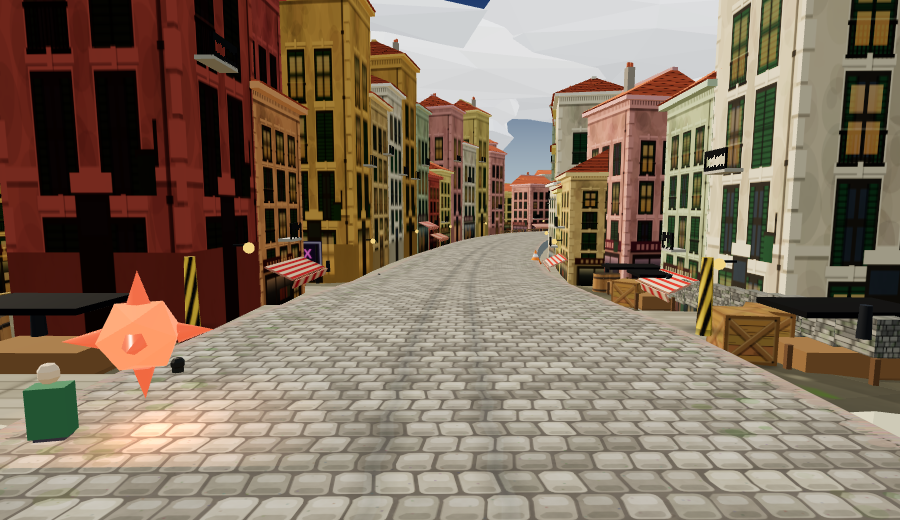
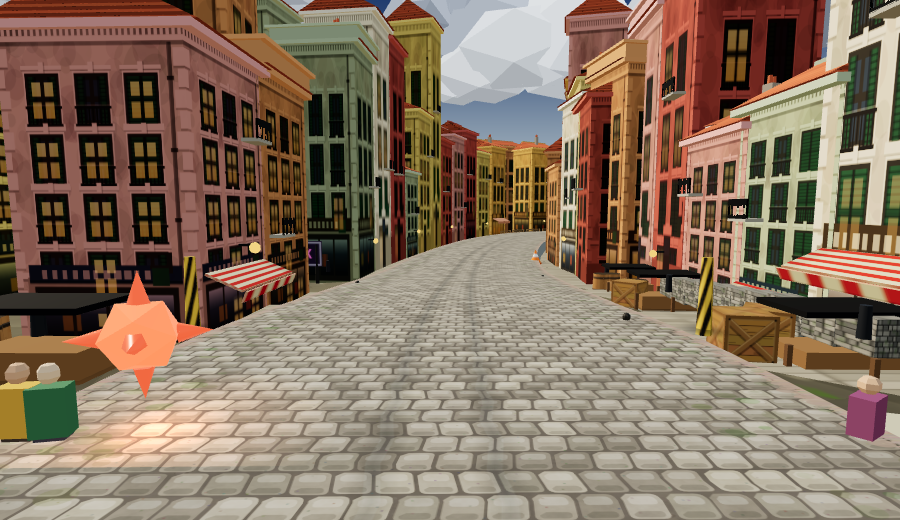
r251: the clouds again, because they looked bad
Reported plainly and correctly. r249 gave each cloud one squashed
icosahedron, and a single convex hull has one silhouette and no internal
form at all: from the ground it is a hard-edged sheet hanging in the air. A
paper cutout, or a boulder.

A CLOUD IS A CLUSTER, NOT A SLAB. Two things make one read: a bumpy top
edge of overlapping lobes, and a base that is cut off. `_cloudClusterGeo`
builds five to seven lumps in a row — biggest in the middle, tapering to
the ends, because that profile is most of what makes a row of blobs read as
ONE cloud rather than as a string — merges them into a single geometry, and
cuts the bottoms off.

Four things had to be got right, each found by looking at the render:

- FEWER, BIGGER LOBES. Ten small lumps packed into two radii overlap so
  heavily that what you see is the SEAMS between them: a crumpled-paper
  interior with no clean silhouette anywhere.
- HEIGHT. The first cluster spread its lumps over three radii of width and
  gave them 0.7 of a radius of rise — a strip of foam, not a cumulus.
- THE BASE IS RUMPLED, NOT PLANAR. Clamping every low vertex to y = 0 gives
  one enormous flat polygon underneath, and from a street you look straight
  at it: a pale sheet with a hard edge, which is the ice-floe read the slabs
  had and the whole reason for the rebuild. The cut-off height wanders with
  x and z instead.
- THE TINT IS NOT WHITE. The renderer tone-maps at 1.46 exposure, so a
[…]

diff --git a/src/track.js b/src/track.js
@@ -4463,7 +4463,18 @@ THEMES.riviera = {
   // shaded one, over a cooler, deeper blue than the postcard one this world
   // had. `cloudKind` is the only line that does it; drop it and the soft
   // sprite field comes straight back.
-  cloudKind: 'faceted', cloudCount: 17, cloudTint: 0xf6f9fc, cloudDeep: 0x93a1b2,
+  // AND THE TINT IS NOT WHITE EITHER. The renderer tone-maps at 1.46 exposure,
+  // so a near-white cloud colour comes out of the shader ABOVE white and every
+  // facet clips to the same value — which is why a bank with perfectly good
+  // baked shading still read as flat foam. Starting from a pale grey leaves
+  // the whole range under the clip and the facets come back.
+  // AND THERE ARE FEWER OF THEM THAN THE REFERENCE HAS. That image is a still
+  // photograph of an overcast; a bank dense enough to match it rings the
+  // horizon, and from a car — where the camera sits at 2.6 u and looks along
+  // the road, not up — thirty-seven clouds at a shallow angle stop being
+  // clouds and become a lid. Twenty distinct ones against blue is the same
+  // style and a better sky to drive under.
+  cloudKind: 'faceted', cloudCount: 9, cloudTint: 0xdae3ec, cloudDeep: 0x76839a,
   skyTop: '#2f6ba4', skyHorizon: '#d6dee2',
   // ...and its own paint. `frontage` is the painted face the town presents to
   // the road, which is what you actually drive past in the budello. Alassio
@@ -18654,125 +18665,193 @@ export class Track {
     }
   }
 
-  /** A LOW-POLY CLOUD: an icosahedron squashed and knocked out of true, so no
-   *  two facets catch the light alike and no silhouette repeats. Built once
-   *  and instanced; the variation is per-instance scale and yaw, which is
-   *  cheaper than four geometries and reads the same from the ground. */
-  _cloudShardGeo() {
-    if (this._shardGeo) return this._shardGeo;
-    const g = new THREE.IcosahedronGeometry(1, 1);
-    const pos = g.attributes.position;
-    const v = new THREE.Vector3();
-    for (let i = 0; i < pos.count; i++) {
-      v.fromBufferAttribute(pos, i);
-      // squash it flat, then push each vertex out by a hash of where it is —
-      // deterministic per vertex, so the two ends of a shared edge agree and
-      // the hull stays closed
-      const n = Math.sin(v.x * 12.9898 + v.y * 78.233 + v.z * 37.719) * 43758.5453;
-      const j = 0.72 + ((n - Math.floor(n)) * 0.56);
-      v.set(v.x * j, v.y * 0.34 * j, v.z * j * 0.86);
-      // a cloud has a flatter bottom than top
-      if (v.y < 0) v.y *= 0.55;
-      pos.setXYZ(i, v.x, v.y, v.z);
+  /** A LOW-POLY CLOUD, AND IT IS A CLUSTER, NOT A SLAB.
+   *
+   *  The first cut gave each cloud one squashed icosahedron. From the ground
+   *  that is a hard-edged sheet hanging in the air — a paper cutout, or a
+   *  boulder — because a single convex hull has one silhouette and no internal
+   *  form at all. Reported, correctly, as looking bad.
+   *
+   *  A cloud reads as a cloud because of two things: a BUMPY TOP EDGE made of
+   *  many overlapping lobes, and a FLAT BASE. So this builds eight to ten
+   *  lumps in a row, biggest in the middle and falling away at the ends,
+   *  merges them into one geometry, and then clamps every vertex at the bottom
+   *  to a single plane — which is what gives a cumulus its cut-off underside
+   *  and, incidentally, one big dark face where the shading bake wants one.
+   *
+   *  THREE VARIANTS, because one silhouette repeated thirty times across a sky
+   *  is the same failure at a different scale. Each is built once and
+   *  instanced, so the whole sky is three draw calls.
+   *
+   *  The lump layout is drawn from a SEEDED generator rather than
+   *  `Math.random()`: these are geometries, not placements, and a cloud shape
+   *  that changes every time the world rebuilds cannot be looked at twice.
+   */
+  _cloudClusterGeo(variant) {
+    this._cloudGeos = this._cloudGeos || new Map();
+    const hit = this._cloudGeos.get(variant);
+    if (hit) return hit;
+    let seed = 20260821 + variant * 7919;
+    const rnd = () => {
+      seed = (seed * 1103515245 + 12345) & 0x7fffffff;
+      return seed / 0x7fffffff;
+    };
+    // detail 0: twenty faces a lump, which is the facet size the reference
+    // draws. Detail 1 is smoother and stops reading as low-poly at all.
+    const src = new THREE.IcosahedronGeometry(1, 0);
+    const sp = src.attributes.position.array;
+    // FEWER, BIGGER LOBES. Ten small lumps packed into two radii overlap so
+    // heavily that what you see is the SEAMS between them — a crumpled-paper
+    // interior with no clean silhouette anywhere. Five or six big ones read as
+    // the distinct billows a cloud is actually made of.
+    const LUMPS = 5 + ((rnd() * 3) | 0);
+    const out = new Float32Array(sp.length * LUMPS);
+    const lumpOf = new Float32Array((sp.length / 3) * LUMPS);
+    let o = 0, li = 0;
+    for (let i = 0; i < LUMPS; i++) {
+      const t = LUMPS < 2 ? 0 : (i / (LUMPS - 1)) * 2 - 1;   // -1..1 along the cloud
+      // biggest in the middle, tapering to the ends: that profile is most of
+      // what makes a row of blobs read as one cloud rather than as a string
+      const taper = 1 - t * t * 0.62;
+      // A CLOUD HAS HEIGHT. The first cluster spread its lumps over three
+      // radii of width and gave them 0.7 of a radius of rise, which is a strip
+      // of foam, not a cumulus: from the ground it read as torn paper laid
+      // flat. Pull the row in and grow the lumps up.
+      const s = (0.52 + rnd() * 0.24) * taper;
+      const cx = t * 0.78 + (rnd() - 0.5) * 0.14;
+      const cy = 0.46 * taper + (rnd() - 0.5) * 0.16;
+      const cz = (rnd() - 0.5) * 0.66;
+      const sy = 0.95 + rnd() * 0.5;
+      const sz = 0.82 + rnd() * 0.4;
+      const shade = (rnd() - 0.5) * 0.1;              // this lump's own value
+      for (let k = 0; k < sp.length; k += 3) {
+        out[o++] = cx + sp[k] * s;
+        out[o++] = cy + sp[k + 1] * s * sy;
+        out[o++] = cz + sp[k + 2] * s * sz;
+        lumpOf[li++] = shade;
+      }
     }
+    // THE FLAT BASE — but RUMPLED, not planar. Clamping every low vertex to
+    // y = 0 gives one enormous flat polygon underneath, and from a street you
+    // are looking straight at it: a pale sheet with a hard edge, which is the
+    // ice-floe read the slab version had and the whole reason for this rebuild.
+    // Cut them off at a height that wanders with x and z instead, so the base
+    // stays a base and still has form in it.
+    for (let k = 0; k < out.length; k += 3) {
+      const nz = Math.sin(out[k] * 5.31 + out[k + 2] * 7.77) * 0.5
+        + Math.sin(out[k] * 11.7 - out[k + 2] * 3.9) * 0.25;
+      const floor = nz * 0.09;
+      if (out[k + 1] < floor) out[k + 1] = floor;
+    }
+    const g = new THREE.BufferGeometry();
+    g.setAttribute('position', new THREE.BufferAttribute(out, 3));
     g.computeVertexNormals();
     // BAKE THE SHADING INTO THE VERTICES, and light the bank with nothing.
     //
     // Standing these in the scene's lights was the obvious thing and it was
-    // wrong: a cloud is a big flat slab seen from BELOW, so the face the
-    // player looks at is lit by the hemisphere's GROUND colour — and on
-    // SANREMO STAGE, whose ground bounce is olive, the whole sky came out
-    // sage green. Every world would have tinted its own clouds with its own
-    // dirt.
+    // wrong: a cloud is seen from BELOW, so the face the player looks at is
+    // lit by the hemisphere light's GROUND colour — and on SANREMO STAGE,
+    // whose ground bounce is olive, the whole sky came out sage green.
     //
     // The cue that actually matters is vertical: bright tops, shaded
     // undersides, mid-tone flanks. Baked as a per-face grey it is
     // rotation-invariant (so instances can yaw freely), identical in every
-    // world, free at runtime, and it leaves the per-cloud tint to the
-    // instance colour, which multiplies it.
-    const pos2 = g.attributes.position;
+    // world, free at runtime, and it leaves the per-cloud tint to the instance
+    // colour, which multiplies it.
     const nor = g.attributes.normal;
-    const cols = new Float32Array(pos2.count * 3);
-    for (let f = 0; f < pos2.count; f += 3) {
-      // this geometry is non-indexed, so a triangle is three consecutive
-      // vertices and its normal is the one they share
+    const cols = new Float32Array(out.length);
+    for (let f = 0; f < out.length / 3; f += 3) {
       const ny = nor.getY(f);
-      // 0.52 straight down to 1.0 straight up, with a little per-face grain so
-      // two facets at the same pitch still read as two facets
-      const n2 = Math.sin(f * 0.7371) * 0.5 + 0.5;
-      const b = 0.52 + 0.48 * (ny * 0.5 + 0.5) ** 0.85 + (n2 - 0.5) * 0.06;
+      // AND THE BASE IS DARK. From a street you are looking at the UNDERSIDE
+      // of a cloud, so that is the value the sky is judged by: at 0.46 the
+      // whole bank was one flat white and the lumps had no relief at all.
+      const b = Math.max(0.3, Math.min(1,
+        0.34 + 0.66 * (ny * 0.5 + 0.5) ** 0.95 + lumpOf[f]));
       for (let k = 0; k < 3; k++) {
         cols[(f + k) * 3] = b; cols[(f + k) * 3 + 1] = b; cols[(f + k) * 3 + 2] = b;
       }
     }
     g.setAttribute('color', new THREE.BufferAttribute(cols, 3));
-    this._shardGeo = g;
+    src.dispose();
+    this._cloudGeos.set(variant, g);
     return g;
   }
-
   _buildCloudBank(T) {
     const n = Math.max(8, Math.round((T.cloudCount ?? 14) * 2.2));
     // UNLIT, because the shading is already in the vertices (see
-    // `_cloudShardGeo`). It is also the cheapest material there is, which for
-    // forty 400 u slabs that cover a third of the frame is worth having.
+    // `_cloudClusterGeo`). It is also the cheapest material there is, which
+    // for a bank covering a third of the frame is worth having.
     const mat = new THREE.MeshBasicMaterial({
       color: 0xffffff, vertexColors: true, fog: false,
     });
-    const mesh = new THREE.InstancedMesh(this._cloudShardGeo(), mat, n);
-    mesh.name = 'cloud-bank';
-    // NEVER A SHADOW CASTER. Forty 400 u slabs in the sun's shadow frustum
-    // would spend the whole shadow map on cloud and leave none for the town.
-    mesh.castShadow = mesh.receiveShadow = false;
-    mesh.frustumCulled = false;
+    // THREE SILHOUETTES, one mesh each. One cloud shape repeated thirty times
+    // across a sky is as obvious as one house repeated down a street.
+    const VARIANTS = 3;
+    const meshes = [];
+    for (let v = 0; v < VARIANTS; v++) {
+      const im = new THREE.InstancedMesh(this._cloudClusterGeo(v), mat,
+        Math.ceil(n / VARIANTS) + 1);
+      im.name = v ? `cloud-bank-${v}` : 'cloud-bank';
+      // NEVER A SHADOW CASTER. Thirty 400 u clouds in the sun's shadow frustum
+      // would spend the whole shadow map on sky and leave none for the town.
+      im.castShadow = im.receiveShadow = false;
+      im.frustumCulled = false;
+      meshes.push(im);
+    }
     const m4 = new THREE.Matrix4(), q = new THREE.Quaternion();
     const up = new THREE.Vector3(0, 1, 0), col = new THREE.Color();
     const base = new THREE.Color(T.cloudTint !== undefined ? T.cloudTint : 0xf6f8fa);
     const deep = new THREE.Color(T.cloudDeep ?? 0x8e9aa8);
     const items = [];
+    const kv = new Array(VARIANTS).fill(0);
     for (let i = 0; i < n; i++) {
+      const v = i % VARIANTS;
+      const mesh = meshes[v];
+      if (kv[v] >= mesh.count) continue;
       const a = (i / n) * Math.PI * 2 + Math.random() * 0.7;
-      // NOT DIRECTLY OVERHEAD. Under 600 u a 400 u slab at 250 u up hangs over
-      // the street like a lid — one of them read as a flying saucer parked
-      // above the town. The bank belongs on the horizon half of the dome.
-      const r = 620 + Math.random() * 980;
-      const far2 = (r - 620) / 980;
-      // BIG AND OVERLAPPING. A bank is a ceiling, not a scatter: at 200 u
-      // across with gaps between them these read as boulders in the sky. The
-      // far ones are bigger AND lower, so the ring closes down to the horizon
-      // the way an overcast does rather than ending in a rim of blue.
-      const sc = 230 + Math.random() * Math.random() * 420 + far2 * 160;
-      const y = 300 + Math.random() * 210 - far2 * 120;
-      // AND THEY ARE NOT WHITE. Value contrast between one slab and the next
-      // is what makes a bank read as depth instead of as polystyrene: the
-      // reference runs from near-white down to a slate that is half the
-      // brightness of the sky behind it.
-      // ...but the dark end is a SHADED CLOUD, not a thundercloud: past about
-      // three quarters of the way to `deep` a slab stops reading as lit from
-      // one side and starts reading as a hole in the sky.
-      col.copy(base).lerp(deep, Math.min(0.62, Math.random() * Math.random() * 1.15));
-      mesh.setColorAt(i, col);
-      items.push({ a, r, y, sc, yaw: Math.random() * Math.PI * 2,
-        asp: 0.5 + Math.random() * 0.5,
+      // NOT DIRECTLY OVERHEAD. Under 600 u a 400 u cloud at 250 u up hangs
+      // over the street like a lid — one read as a flying saucer parked above
+      // the town. The bank belongs on the horizon half of the dome.
+      const r = 780 + Math.random() * 900;
+      const far2 = (r - 780) / 900;
+      // the far ones are bigger AND lower, so the ring closes down toward the
+      // horizon the way an overcast does rather than ending in a rim of blue
+      // a squared bias, so the field is mostly middling clouds with two or
+      // three heroes in it rather than twenty of one size
+      const sc = 170 + Math.random() * Math.random() * 440 + far2 * 150;
+      // spread through the height of the sky, not banded at one altitude
+      const y = 300 + Math.random() * 300 - far2 * 120;
+      // VALUE CONTRAST IS THE DEPTH. But the dark end is a SHADED cloud, not a
+      // thundercloud: past about three quarters of the way to `deep` a cloud
+      // stops reading as lit from one side and starts reading as a hole.
+      col.copy(base).lerp(deep, Math.min(0.7, Math.random() * Math.random() * 1.3));
+      mesh.setColorAt(kv[v], col);
+      items.push({ v, k: kv[v]++, a, r, y, sc,
+        yaw: Math.random() * Math.PI * 2,
+        // a cloud is wider than it is deep and much wider than it is tall
+        hgt: 0.5 + Math.random() * 0.3,
+        asp: 0.52 + Math.random() * 0.4,
         speed: (0.8 + Math.random() * 1.6) * (1 - 0.45 * far2) });
     }
     const place = () => {
-      for (let i = 0; i < items.length; i++) {
-        const it = items[i];
+      for (const it of items) {
         q.setFromAxisAngle(up, it.yaw);
         m4.compose(new THREE.Vector3(Math.cos(it.a) * it.r, it.y, Math.sin(it.a) * it.r),
-          q, new THREE.Vector3(it.sc, it.sc * 0.5, it.sc * it.asp));
-        mesh.setMatrixAt(i, m4);
+          q, new THREE.Vector3(it.sc, it.sc * it.hgt, it.sc * it.asp));
+        meshes[it.v].setMatrixAt(it.k, m4);
       }
-      mesh.instanceMatrix.needsUpdate = true;
+      for (const im of meshes) im.instanceMatrix.needsUpdate = true;
     };
     place();
-    if (mesh.instanceColor) mesh.instanceColor.needsUpdate = true;
-    this.group.add(mesh);
-    // the bank drifts by rotating the whole ring, which is one number a frame
-    // instead of forty matrix recompositions
-    this.animated.cloudBank = { mesh, items, place, drift: 0 };
+    for (let v = 0; v < VARIANTS; v++) {
+      meshes[v].count = kv[v];
+      if (meshes[v].instanceColor) meshes[v].instanceColor.needsUpdate = true;
+      if (kv[v]) this.group.add(meshes[v]);
+    }
+    // the bank drifts by creeping each cloud around its own circle, which is
+    // one add a cloud instead of a re-scatter
+    this.animated.cloudBank = { meshes, items, place, drift: 0 };
   }
-
   /** Atmospheric-perspective gradient map for a horizon ring: the silhouette
    *  color fades toward the fog color at the base (and desaturates for far
    *  rings) so stacked ridgelines read with real depth. */

diff --git a/HANDOVER.md b/HANDOVER.md
@@ -2239,3 +2239,47 @@ cheaper one. Textures +0.3 MB for the paving map.
 Gates: boot 4/4, test-buildings green (including "every roof sits on its
 house", which the collapsed prisms had to pass), test-carriageway green, road
 census over 73/74/77/78 at baseline.
+
+## r251 — THE CLOUDS AGAIN, BECAUSE THEY LOOKED BAD
+Reported plainly and correctly. r249 gave each cloud ONE squashed icosahedron,
+and a single convex hull has one silhouette and no internal form at all: from
+the ground it is a hard-edged sheet hanging in the air. A paper cutout, or a
+boulder.
+
+### A CLOUD IS A CLUSTER, NOT A SLAB
+Two things make one read: a BUMPY TOP EDGE of overlapping lobes, and a base
+that is cut off. `_cloudClusterGeo` builds five to seven lumps in a row —
+biggest in the middle, tapering to the ends, because that profile is most of
+what makes a row of blobs read as ONE cloud rather than as a string — merges
+them into a single geometry, and cuts the bottoms off.
+
+Four things had to be got right, each found by looking at the render:
+  1. FEWER, BIGGER LOBES. Ten small lumps packed into two radii overlap so
+     heavily that what you see is the SEAMS between them: a crumpled-paper
+     interior and no clean silhouette anywhere.
+  2. HEIGHT. The first cluster spread its lumps over three radii of width with
+     0.7 of a radius of rise — a strip of foam, not a cumulus.
+  3. THE BASE IS RUMPLED, NOT PLANAR. Clamping every low vertex to y = 0 gives
+     one enormous flat polygon underneath, and from a street you look straight
+     at it — a pale sheet with a hard edge, which is the ice-floe read the
+     slabs had and the whole reason for the rebuild. The cut-off height wanders
+     with x and z instead.
+  4. THE TINT IS NOT WHITE. The renderer tone-maps at 1.46 exposure, so a
+     near-white cloud colour leaves the shader ABOVE white and every facet
+     clips to the same value — perfectly good baked shading, rendered flat.
+     Starting from a pale grey puts the whole range under the clip.
+
+### AND THERE ARE FEWER OF THEM
+The reference is a still photograph of an overcast. A bank dense enough to
+match it rings the horizon, and from a car — camera at 2.6 u looking ALONG the
+road, not up — thirty-seven clouds at a shallow angle stop being clouds and
+become a lid. Twenty distinct ones against blue is the same style and a much
+better sky to drive under. `tools-scratch/skyshot.mjs` is the shot that settles
+this: pitched up, so the frame is mostly sky. Tuning a cloud bank from a street
+shot means tuning it on the one strip a building has not already covered.
+
+Three silhouettes, one instanced mesh each, so the sky is three draw calls;
+still eleven fewer than the sprite field it replaced.
+
+Gates: boot 4/4, test-carriageway green, test-buildings green, road census over
+73/74/77/78 at baseline.

diff --git a/tools-scratch/README.md b/tools-scratch/README.md
@@ -62,6 +62,14 @@ real time to get right and the next session should not rebuild them.
                 stands IN the square looking at its church — the only shot
                 that shows a facade, and the one that caught a door and a rose
                 window built on the wrong side of their own wall.
+- `skyshot.mjs`  the sky, pitched up, so the frame is mostly cloud. A bank
+                tuned from a street shot is tuned on the one strip of sky a
+                building has not already covered — which is how a cloud field
+                that looked fine at eye level turned out to be a lid.
+- `skyprobe.mjs` the cloud bank the running world built: theme tint, the
+                per-instance colours it produced, material type, and the
+                renderer's tone mapping and exposure (which is what was
+                clipping the shading flat).
 - `townsfolk.mjs` how many people were placed, how many stand in a square, how
                 many are BURIED in one, and how many are on a carriageway. The
                 last three are the ones that have been wrong.
